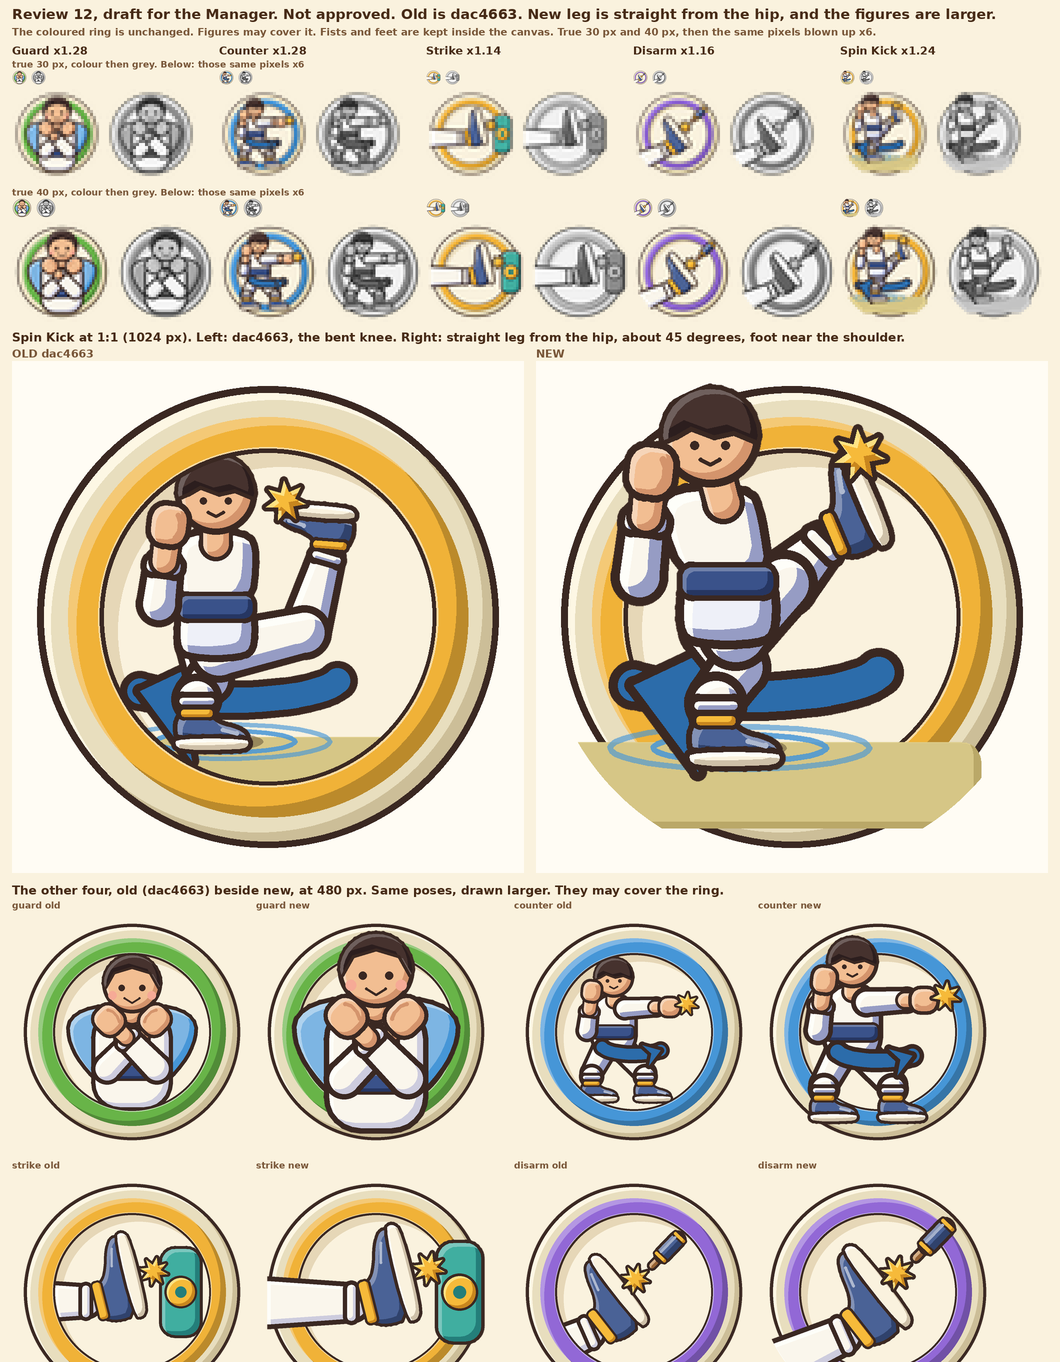
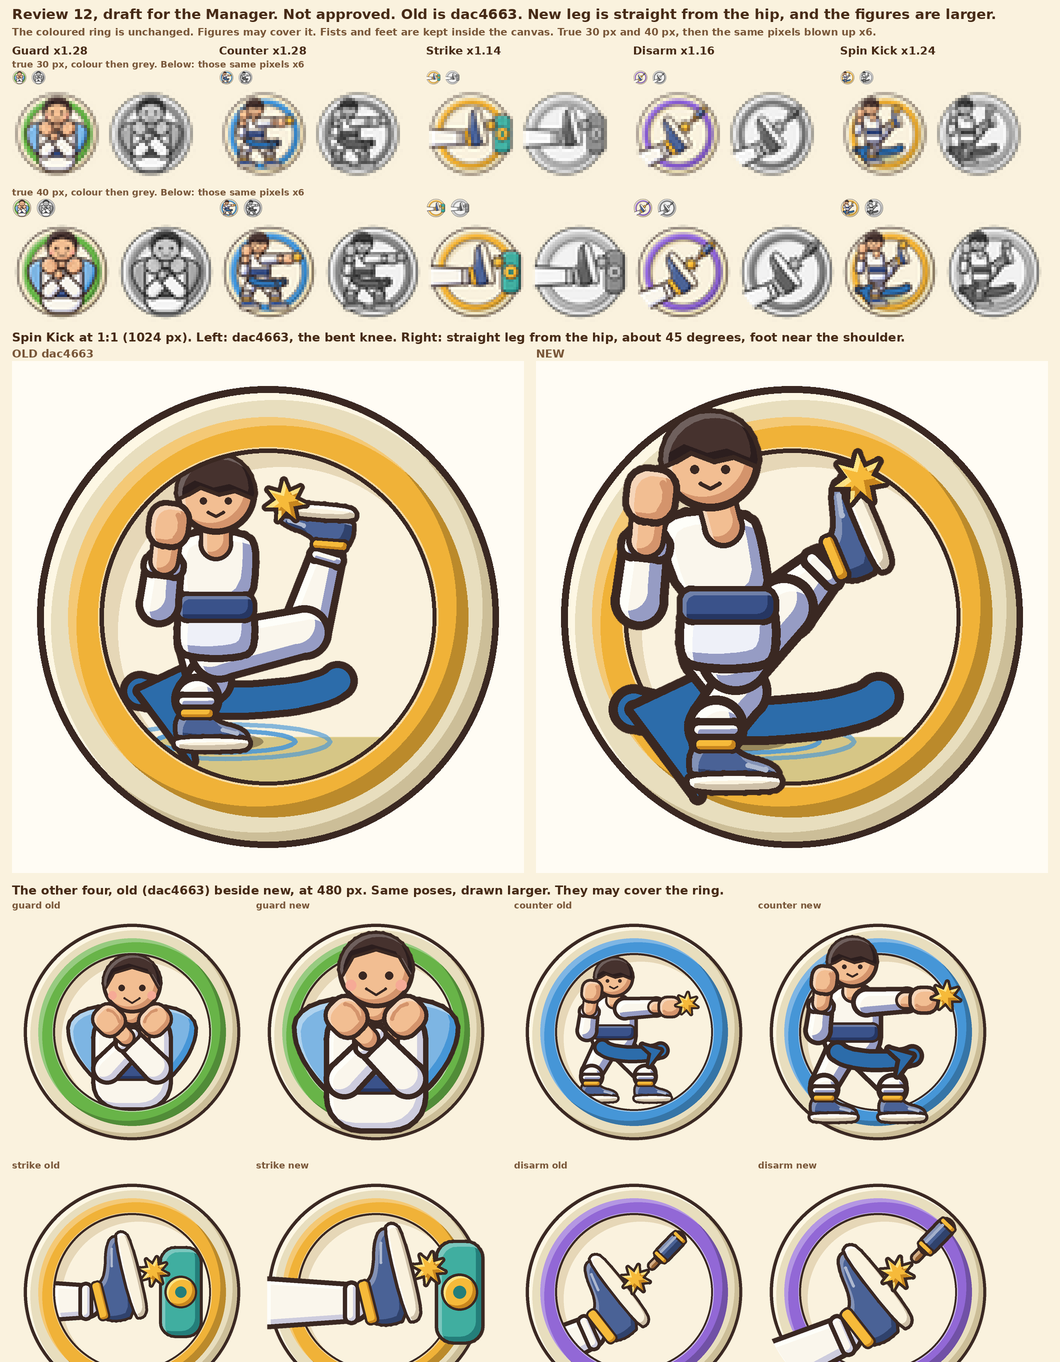
art: #454 keep the Spin Kick floor inside the original circle
The tan ground was scaling with the fighter and spilling over the ring. The floor, ripples and shadow now stay on the old fit, clipped to the cream face. Only the figure and the spin arrow grow.

Changed region(s): [[0.5292, 0.2775, 0.934, 0.6167], [0.7783, 0.0617, 0.9651, 0.2467], [0.9028, 0.1542, 0.9651, 0.2467]]

diff --git a/incoming-art/icons-slots/source/seal_icons.py b/incoming-art/icons-slots/source/seal_icons.py
@@ -30,7 +30,7 @@ PLACE = {
     'counter': (1.28, 0, 0),
     'strike': (1.14, 30, 0),
     'disarm': (1.16, 18, -4),
-    'spins': (1.24, 0, -12),
+    'spins': (1.24, 0, 0),
 }
 V6_ARROW = {
     'counter': dict(w=7, head=16, spread=0.62, ow=None, outline=(255, 252, 240)),
@@ -557,12 +557,14 @@ def jumping_spins(rim=RIMS['strike'], kx=186, ky=98, kang=-20, hx=114, ttop=84, 
     bg = floor()
     old_s, new_s = V6_ARROW['spins'], PASS7['spins']
     lock_art = _over([arrow_art(old_s, old_s['outline'], old_s['ow'], head), body_v6()])
-    f, dx, dy = _fit_params(lock_art, W, H, cx, cy, 1.0)
+    f0, dx0, dy0 = _fit_params(lock_art, W, H, cx, cy, 1.0)
     new_all = _over([arrow_art(new_s, INKC, new_s['ow'], new_s['head'], y=arrow_y + 22), body_art()])
     med = medallion(rim)
+    # the floor, ripples and shadow stay on the original fit, clipped to the cream face
+    place(med, bg, f0, dx0, dy0, face_clip())
     sc, nx, ny = PLACE['spins']
-    f, dx, dy = grow_placement(f, dx, dy, sc)
-    place_fit(med, new_all, W, H, cx, cy, bg=bg, lock=(f, dx + nx, dy + ny), clip=wide_clip())
+    f, dx, dy = grow_placement(f0, dx0, dy0, sc)
+    place(med, new_all, f, dx + nx, dy + ny, wide_clip())
     return med.result()
 
 

diff --git a/incoming-art/icons-slots/DELIVERY_NOTE.md b/incoming-art/icons-slots/DELIVERY_NOTE.md
@@ -1,7 +1,7 @@
 # Delivery Note: Seal families (PB-07 samples, pass 7b draft)
 
 - **ITEM:** PB-07 slot art. Pass 7b is a draft for the Manager. The Manager rejected the dac4663 kick before Jay reviewed it.
-- **WHAT:** The dac4663 kick had a flat thigh and a shin at about 90 degrees, so the knee read as a crouch. The new kicking leg is one straight line from the hip. Hip joint (118, 156), inside the pelvis. Ankle is 70 drawing-units away at 45 degrees up. The knee is the midpoint of that line, so the thigh angle and the shin angle are both 45 degrees. It is not an L. The shoe continues the same line and the foot sits near shoulder height. The standing knee is a little forward of a straight support leg. The shoulders and the head lean back 9 units; the belt stays. Digits: 1 fist, 0 fingers, 2 shoes, 0 toes. The face and the fist are clear. The heavier lines and the darker arrows from pass 7 are unchanged. The five figures are larger than dac4663 and may cover the coloured ring. The ring drawing and the canvas size do not change. Scale from the dac4663 placement: Guard 1.28, Counter 1.28, Strike 1.14 and shifted 30 units right (so the shin is not cut off), Disarm 1.16 and shifted 18 right and 4 up, Spin Kick 1.24 and shifted 12 up (so the standing shoe stays whole). No figure pixel sits in the outer 3 pixels of the canvas. Red check 0 on all 8. Guard elbows are still 0.2 units inside the torso in the drawing. dac4663 renders are kept in `superseded/v5-pass7-dac4663/`. Sheet 12. Not exported. Not approved.
+- **WHAT:** The dac4663 kick had a flat thigh and a shin at about 90 degrees, so the knee read as a crouch. The new kicking leg is one straight line from the hip. Hip joint (118, 156), inside the pelvis. Ankle is 70 drawing-units away at 45 degrees up. The knee is the midpoint of that line, so the thigh angle and the shin angle are both 45 degrees. It is not an L. The shoe continues the same line and the foot sits near shoulder height. The standing knee is a little forward of a straight support leg. The shoulders and the head lean back 9 units; the belt stays. Digits: 1 fist, 0 fingers, 2 shoes, 0 toes. The face and the fist are clear. The heavier lines and the darker arrows from pass 7 are unchanged. The five figures are larger than dac4663 and may cover the coloured ring. The ring drawing and the canvas size do not change. Scale from the dac4663 placement: Guard 1.28, Counter 1.28, Strike 1.14 and shifted 30 units right (so the shin is not cut off), Disarm 1.16 and shifted 18 right and 4 up, Spin Kick figure and arrow 1.24. The Spin Kick floor, ripples and shadow stay on the original fit, clipped to the cream face, so the tan ground does not spill over the ring. No figure pixel sits in the outer 3 pixels of the canvas. Red check 0 on all 8. Guard elbows are still 0.2 units inside the torso in the drawing. dac4663 renders are kept in `superseded/v5-pass7-dac4663/`. Sheet 12. Not exported. Not approved.
 - **WHY:** The Manager said the bent knee looked like an awkward crouch, and the figures were being kept small only to stay inside the ring. Covering the ring is allowed. Cutting a fist or a foot off the canvas is not.
 - **DECIDE:** Manager, please check this draft before Jay. Is the kicking leg one straight 45-degree line from the hip, with the foot near the shoulder, and not an L? Look at sheet 12 at true 30 px, true 40 px, and the 1:1 pair.
 - **NEXT:** After the Manager's check, Jay looks. No export until then. The Programmer will be asked separately for larger in-game slots. This note does not change any game file.

diff --git a/incoming-art/icons-slots/README.md b/incoming-art/icons-slots/README.md
@@ -6,7 +6,7 @@ The folder is `incoming-art/icons-slots/`, the path the PB-07 spec names (it was
 
 **What changed in pass 7b (Manager rejected the dac4663 kick before Jay saw it):**
 - **Spin Kick leg.** Not an L. The hip joint is inside the pelvis at (118, 156). The ankle is 70 drawing-units away at 45 degrees up, and the knee is the midpoint of that line, so the thigh and the shin are the same angle. The shoe continues that line, and the foot sits near shoulder height. The standing knee is a little forward of a straight leg. The shoulders and the head shift back 9 units; the belt stays put. 1 fist, 0 fingers, 2 shoes, 0 toes.
-- **Size.** The canvas and the ring are unchanged. The figures grow by these factors from the dac4663 placement, and they may cover the coloured ring: Guard 1.28, Counter 1.28, Strike 1.14 (also shifted 30 units right so the shin is not cut off), Disarm 1.16 (shifted 18 right and 4 up), Spin Kick 1.24 (shifted 12 up so the standing shoe stays whole). Nothing touches the outer 3 pixels of the canvas.
+- **Size.** The canvas and the ring are unchanged. The figures and the spin arrow grow by these factors from the dac4663 placement, and they may cover the coloured ring: Guard 1.28, Counter 1.28, Strike 1.14 (also shifted 30 units right so the shin is not cut off), Disarm 1.16 (shifted 18 right and 4 up), Spin Kick 1.24. The Spin Kick floor, ripples and shadow stay on the original fit and are clipped to the cream face, so they do not become a tan banner over the ring. Nothing touches the outer 3 pixels of the canvas.
 - **Kept from pass 7:** the heavier outlines and the darker, thicker arrows. Lock and the empty slot are untouched. dac4663 renders are in `superseded/v5-pass7-dac4663/`. Sheet 12.
 
 **What changed in pass 7 (Jay, Nov 8, via the Manager: everything is approved except Spin Kick; the small icons' lines do not read):**
